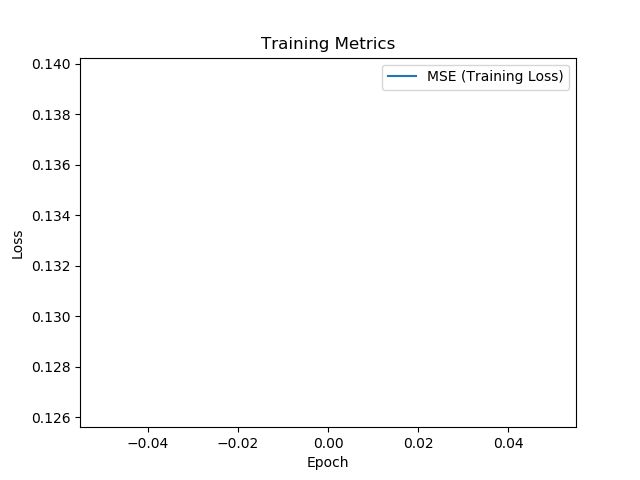
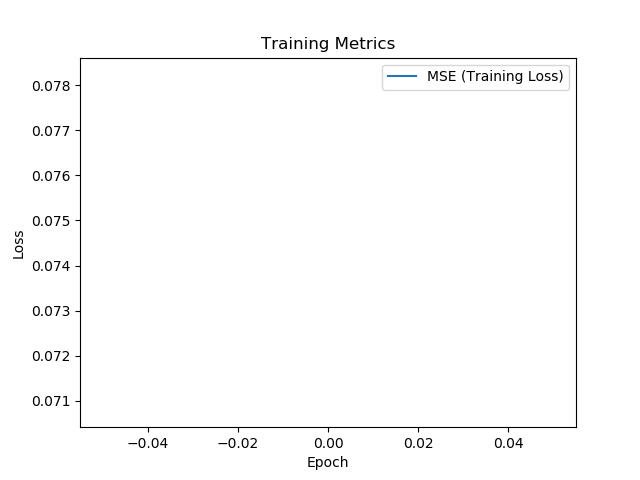
Implements algorithm saving structure

diff --git a/seq2point_train.py b/seq2point_train.py
@@ -106,7 +106,7 @@ def train_model(APPLIANCE, PRUNING_ALGORITHM, BATCH_SIZE, CROP):
 
         training_history = model.fit_generator(TRAINING_CHUNKER.load_dataset(),
             steps_per_epoch=steps_per_training_epoch,
-            epochs=15,
+            epochs=1,
             verbose=1,
             validation_data = VALIDATION_CHUNKER.load_dataset(),
             validation_steps=10,
@@ -215,8 +215,6 @@ def train_model(APPLIANCE, PRUNING_ALGORITHM, BATCH_SIZE, CROP):
     model.compile(optimizer=tf.keras.optimizers.Adam(learning_rate=0.001, beta_1=0.9, beta_2=0.999), loss="mse", metrics=["mse", "msle", "mae"]) 
     early_stopping = tf.keras.callbacks.EarlyStopping(monitor="loss", min_delta=0, patience=0, verbose=1, mode="auto")
 
-    if PRUNING_ALGORITHM == "default":
-        training_history = default_train(model, early_stopping, steps_per_training_epoch)
     if PRUNING_ALGORITHM == "tfmot":
         training_history = tfmot_pruning(model, early_stopping, steps_per_training_epoch)
     if PRUNING_ALGORITHM == "spp":
@@ -225,6 +223,8 @@ def train_model(APPLIANCE, PRUNING_ALGORITHM, BATCH_SIZE, CROP):
         training_history = entropic_pruning(model, early_stopping, steps_per_training_epoch)
     if PRUNING_ALGORITHM == "threshold":
         training_history = threshold_pruning(model, early_stopping, steps_per_training_epoch)
+    else:
+        training_history = default_train(model, early_stopping, steps_per_training_epoch)
 
     model.summary()
 
